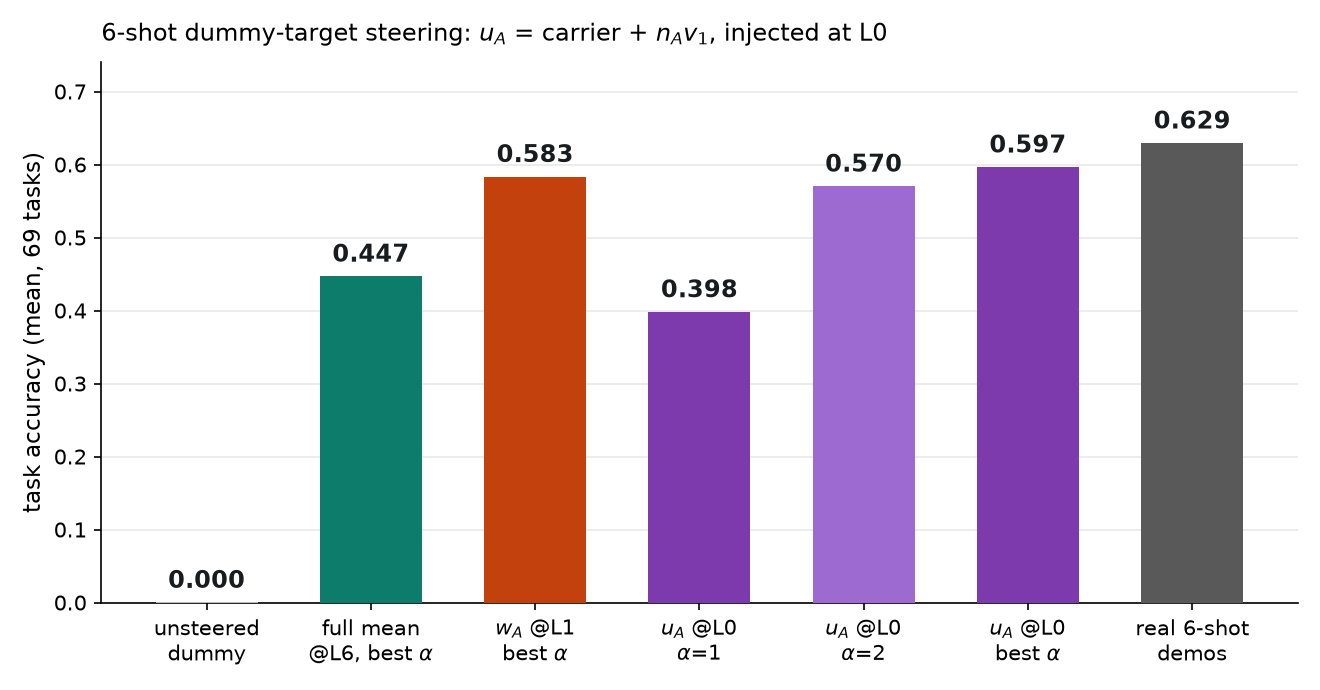
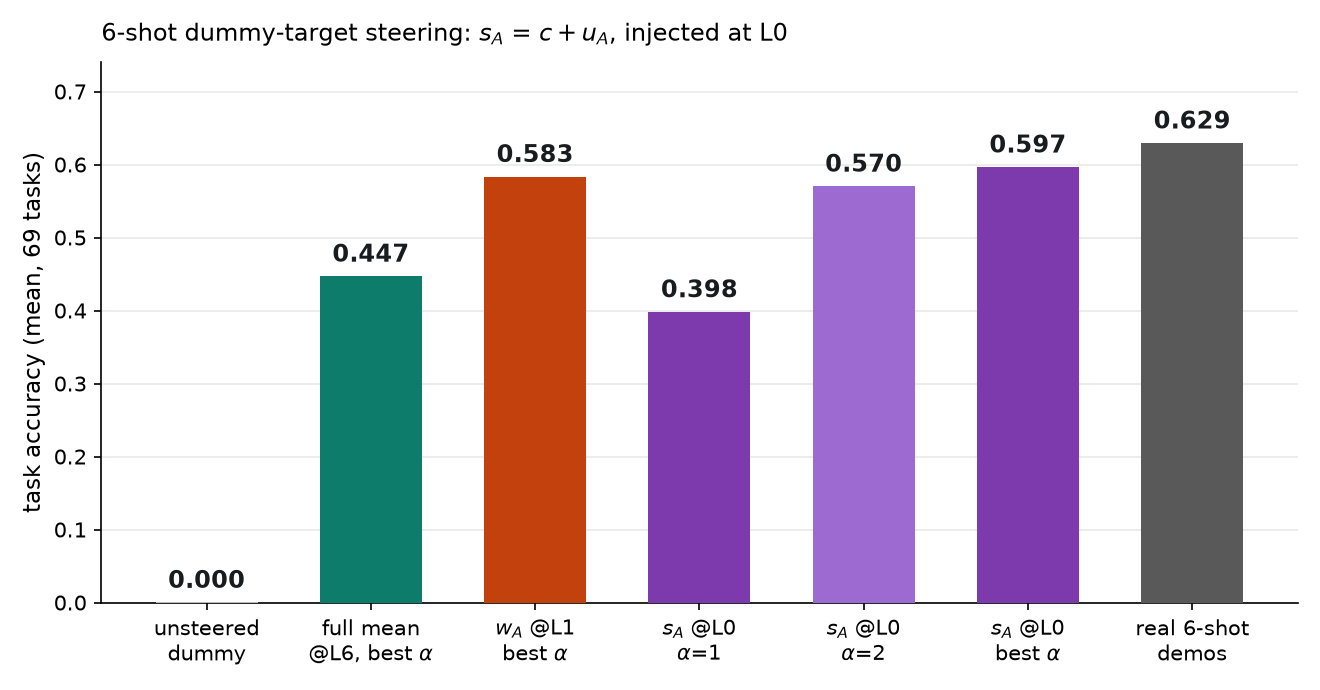
meanresid L5 steering (0.458/0.508, matches SVD twin), s_A plot labels, WORKLOG/DECISIONS entries

diff --git a/src/eval_scripts/plot_l67top1_sixshot.py b/src/eval_scripts/plot_l67top1_sixshot.py
@@ -64,7 +64,8 @@ def main():
     is_c = _NAME.startswith(("ctop1", "meanresid"))
     lay = os.environ.get("L67_SIXSHOT_SUB", "sixshot").replace("sixshot_", "") or "L1"
     lay = lay if lay.startswith("L") else "L1"
-    vname = "$u_A$" if is_c else "$w_A$"
+    is_mr = _NAME.startswith("meanresid")
+    vname = ("$s_A$" if is_mr else "$u_A$") if is_c else "$w_A$"
     bars = [("unsteered\ndummy", m("baseline"), "0.72"),
             ("full mean\n@L6, best $\\alpha$", m("ref_fullmeanL6_best"), "#0e7c6b")]
     if is_c and WA_CSV.exists():
@@ -110,7 +111,7 @@ def main():
     ax.set_xticks(x, [b[0] for b in bars], fontsize=10)
     ax.set_ylim(0, 0.74)
     ax.set_ylabel("task accuracy (mean, 69 tasks)", fontsize=11)
-    ax.set_title(("6-shot dummy-target steering: $u_A$ = carrier + $n_A v_1$, injected at " + lay) if is_c else "6-shot dummy-target steering: $w_A$ = L6/7 mean + top-1 dir, injected at L1",
+    ax.set_title(("6-shot dummy-target steering: " + ("$s_A$ = $c + u_A$" if is_mr else "$u_A$ = carrier + $n_A v_1$") + ", injected at " + lay) if is_c else "6-shot dummy-target steering: $w_A$ = L6/7 mean + top-1 dir, injected at L1",
                  fontsize=11.5, loc="left", pad=10)
     ax.grid(axis="y", color="#e8eae6", lw=0.8, zorder=0)
     for s in ["top", "right"]: ax.spines[s].set_visible(False)

diff --git a/WORKLOG.md b/WORKLOG.md
@@ -388,6 +388,42 @@ c + 2n_A v1. Sufficiency-by-m_A(L6) (0.442) text earlier in Claim 3 left as is (
 
 ---
 
+## 2026-09-03 — Task-unique part := mean of carrier-removed L5–7 residuals (u_A); s_A = c + u_A (user decision)
+
+**Owner:** Claude Code background agent, main checkout. Pod fv-meanresid (1× RTX PRO 4500
+$0.72/h, ≈2.3 pod-h ≈ $1.7, TERMINATED, re-listed gone). **Status:** DONE.
+
+**Why:** user asked (2026-09-02) whether the SVD top-1 direction of the three unit-normed
+carrier-removed residuals is just their mean, and proposed the simpler object: per layer
+ℓ∈{5,6,7} project the shared carrier direction ĉ(ℓ) out of m_A(ℓ) → r_A(ℓ); **u_A =
+(1/3)Σ r_A(ℓ)** (natural magnitude, no SVD, no unit-norming, no n_A coefficient). Ablate
+û_A = u_A/‖u_A‖; steer with **s_A = c + u_A**.
+
+**Checks (69 tasks, bank a):** |cos(û_A, v1)| median 0.9993 (min ≥ 0.997); ‖u_A‖/|n_A|
+median 1.0008 (0.998–1.004); median ‖u_A‖ 28.1, ‖c‖ 47.0, ‖s_A‖ 55.2. **Ablation** (mean-abl
+at all demo targets, all 28 blocks): 6-shot own **0.132** / cf 0.632 (baseline 0.629; SVD:
+0.130/0.632); 1-shot own **0.044** / cf 0.205 (baseline 0.208; SVD 0.043/0.205). **Steering**
+(6-shot dummy scaffold): @L0 α=1 0.398, α=2 **0.570**, per-task best **0.597** (SVD 0.570 /
+0.596); @L5 α=2 0.458, best 0.508 (SVD 0.457 / 0.507). ⇒ the two definitions are the same
+object; the mean-residual one is adopted as the paper's task-unique part (DECISIONS 2026-09-03).
+
+**Files:** NEW `src/sandbox/ext_steerability/build_meanresid_taskunique.py` (→
+`bankA/meanresid_top1_bases.pt` unit û_A, `bankA/carrier_plus_meanresid_vectors.pt` s_A with
+u_norm/carrier_norm/vec_norm), `run_meanresid_pod.sh` (ablation 6+1-shot → steering L0, L5);
+`sixshot_l67top1_steer.py` n_A→`.get(n_A, u_norm)`; `plot_69_taskunique_L5to7_top1.py`
+`MEANRESID=1` switch → `results/…/ablation/task_unique_meanresid/`; `plot_l67top1_sixshot.py`
+meanresid labels (s_A) → `results/…/steering_results/meanresid/sixshot_L{0,5}/`;
+`make_readfeature_explainer.py` panel C = project out c, then average. Artifacts
+`69_task_run/{bankA_meanresid_top1, meanresid_steering/sixshot_L{0,5}}/`. Paper draft Claim 3
+rewritten to the u_A definition (motivation, definition block, necessity, sufficiency figures);
+Claims 4/5 + App I/F/presence prose reconciled (steering vector now $s_A$, SVD composite kept
+as labelled variant row); `/workspace/read_feature_explainer.md` §2/§3 updated.
+
+**Next:** none for this definition. Open: Claim 6 linear-map re-run with X = bank-(a) L5–7
+read feature (CPU-only, awaiting user go).
+
+---
+
 ## 2026-09-02 — ctop1: carrier + n_A·v1 steering vector (mirrors the ablation object)
 
 **Owner:** Claude Code background agent, main checkout. Pods fv-ctop1-sw{0,1,2} + fv-ctop1-six0

diff --git a/DECISIONS.md b/DECISIONS.md
@@ -1,5 +1,24 @@
 # DECISIONS
 
+## 2026-09-03 — Task-unique part of the read feature = mean of the carrier-removed L5–7 residuals (user decision)
+
+- For each ℓ ∈ {5,6,7}: $\hat c(\ell)$ = unit cross-task mean of $m_A(\ell)$ (shared
+  carrier direction); $r_A(\ell) = m_A(\ell) - \langle m_A(\ell), \hat c(\ell)\rangle \hat c(\ell)$
+  (carrier PROJECTED OUT, not subtracted). **$u_A = \tfrac13 \sum_\ell r_A(\ell)$** is the
+  task-unique part — a vector with natural magnitude (median ‖u_A‖ 28 vs ‖c‖ 47).
+- **Ablation object:** $\hat u_A = u_A/‖u_A‖$ (`bankA/meanresid_top1_bases.pt`).
+  **Steering object:** $s_A = c + u_A$ with $c$ the layer-averaged L5–7 carrier
+  (`bankA/carrier_plus_meanresid_vectors.pt`); no coefficient to fit.
+- Supersedes the SVD definition (top singular direction $v_1$ of the three unit-normed
+  residuals; $n_A = \langle \bar m_A - c, v_1\rangle$; $c + n_A v_1$): the two agree at
+  |cos| median 0.9993, ‖u_A‖/|n_A| ≈ 1.001, and give identical ablation/steering numbers
+  (±0.002). Reason for the switch: simpler to explain, no arbitrary SVD sign, natural
+  magnitude. The SVD variant stays in App I as a labelled row; App F/K/presence prose notes
+  the equivalence where their numbers were computed with $v_1$.
+- Notation in the draft: $u_A$ = task-unique part, $s_A$ = steering vector. (Before
+  2026-09-03, $u_A$ denoted the steering vector $c + n_A v_1$ — WORKLOG 2026-09-02 entries use
+  that older meaning.)
+
 ## 2026-09-01 — Read feature estimator: final-target-site (bank a) is canonical (user decision)
 
 - The read feature $m_A(\ell)$ is estimated from `label_resid_means`: the residual (block

diff --git a/write_up/read_and_write_features_for_in_context_learning_paper_draft.md b/write_up/read_and_write_features_for_in_context_learning_paper_draft.md
@@ -788,7 +788,7 @@ vector composition) and $c + 2 u_A$ (to match $w_A$'s dose).
 **Injection layer (6-shot, $s_A$).** The 1-shot sweep picks L0–L3, but $s_A$ is built from
 L5–7 activations, so we also injected it at each of L5, L6 and L7 on the 6-shot scaffold
 (same vector, same prompts, same readout; run with the SVD-variant twin $c + n_A v_1$, which
-matches $s_A$ to 0.001 at L0):
+matches $s_A$ to ≤0.001 at both layers where both were run — L0 and L5, where $s_A$ gives 0.458 / 0.508 at $\alpha=2$ / per-task best):
 
 | injection layer | $\alpha=2$ | $\alpha=4$ | per-task best $\alpha$ |
 |---|---:|---:|---:|
